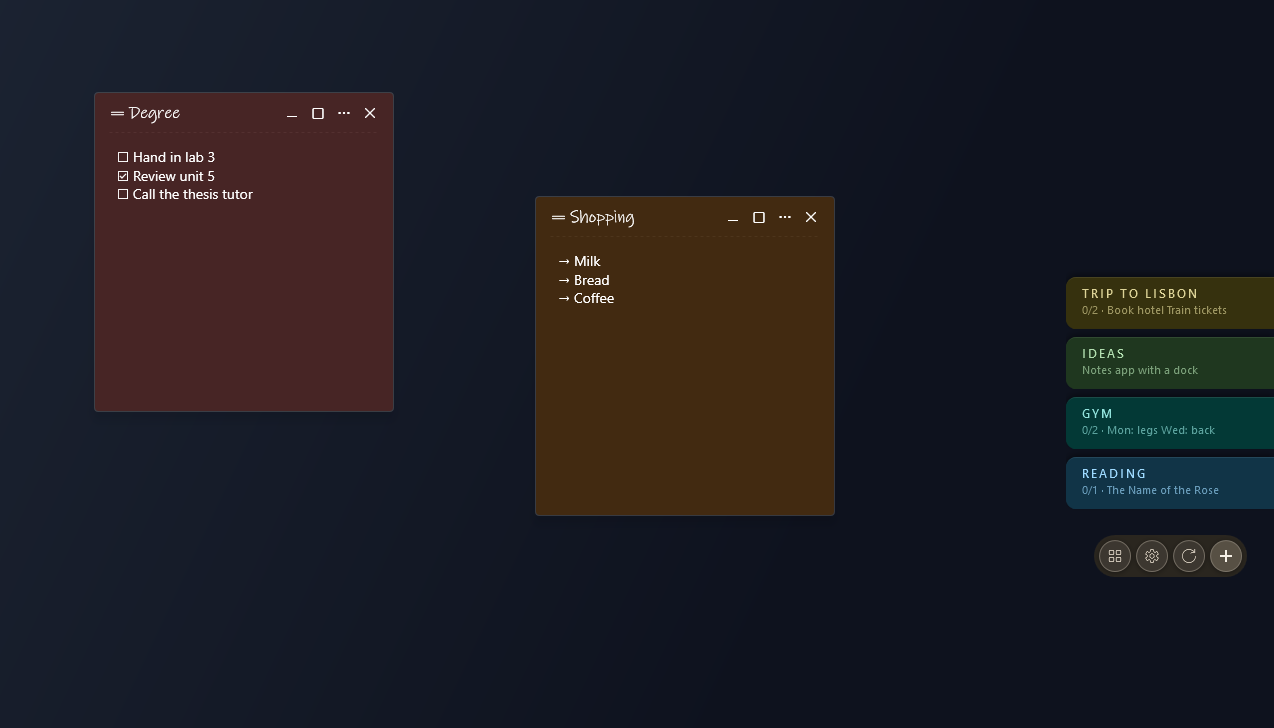
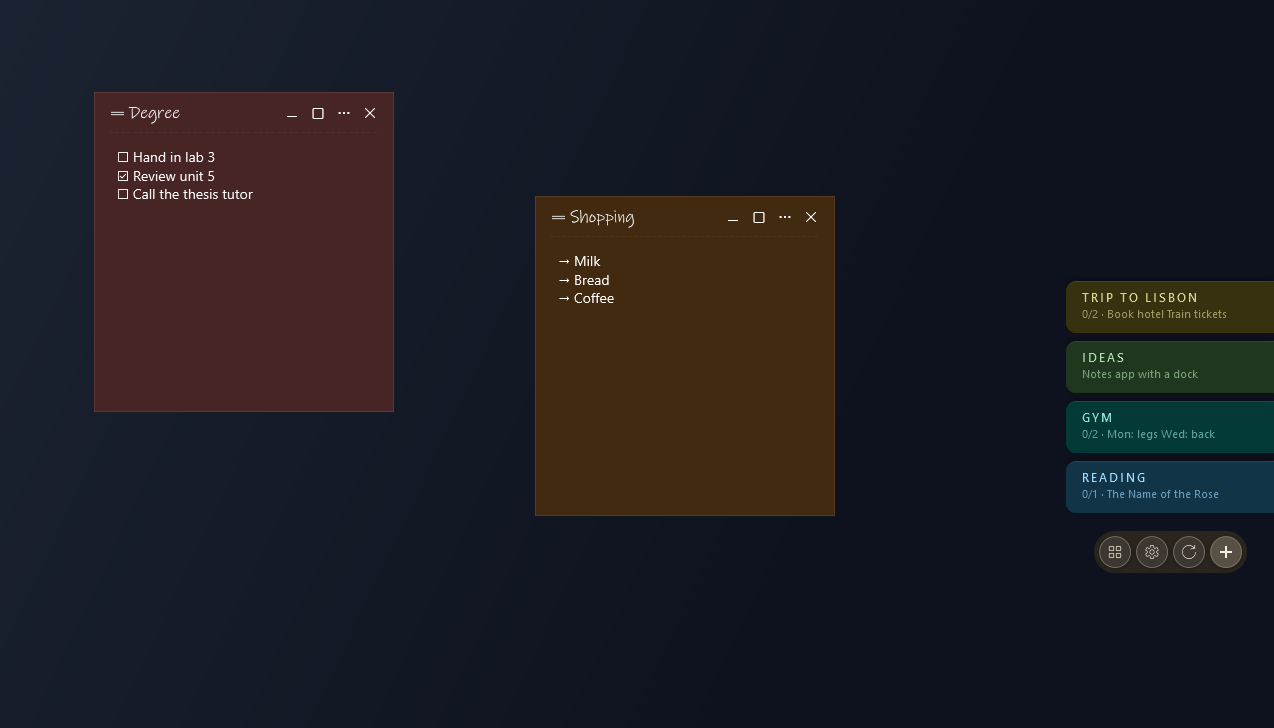
Closing a note fades the whole window (ClosingGhost); README screenshot with the tighter dock

diff --git a/src/Aldune/Windowing/ClosingGhost.cs b/src/Aldune/Windowing/ClosingGhost.cs
@@ -1,0 +1,118 @@
+using System.Runtime.InteropServices;
+using System.Windows;
+using System.Windows.Media;
+using System.Windows.Media.Animation;
+using System.Windows.Media.Effects;
+using System.Windows.Media.Imaging;
+using Aldune.Interop;
+using Brushes = System.Windows.Media.Brushes;
+using Color = System.Windows.Media.Color;
+using Image = System.Windows.Controls.Image;
+
+namespace Aldune.Windowing;
+
+/// <summary>
+/// Fades a closing note as ONE piece: frame, border and shadow included.
+///
+/// A note is an opaque window (it keeps ClearType, see NoteWindow), and an opaque window cannot change its opacity: animating the
+/// content only melts the content into the window background while the frame stays at full strength and then vanishes with a pop
+/// (very visible with the XP look). Windows also refuses <c>WS_EX_LAYERED</c> on these WPF windows, so a layered fade is not an option.
+/// Instead the window is photographed, hidden (cloaked) and a transparent window showing that photo fades and shrinks in its place.
+/// If anything fails the caller just closes the window as before.
+/// </summary>
+internal static class ClosingGhost
+{
+    private const double ShadowRoom = 24;
+    private const uint PW_RENDERFULLCONTENT = 0x2;
+
+    /// <summary>
+    /// Photographs <paramref name="source"/> as WPF draws it now: the window background under its content, at the screen's pixel density.
+    /// (PrintWindow was tried first and returns only the background of a WPF window.) Null if there is nothing to draw.
+    /// </summary>
+    internal static BitmapSource? Capture(Window source)
+    {
+        if (source.Content is not FrameworkElement content || source.ActualWidth < 1 || source.ActualHeight < 1) return null;
+        var dpi = VisualTreeHelper.GetDpi(source);
+        double width = source.ActualWidth, height = source.ActualHeight;
+
+        var visual = new DrawingVisual();
+        using (var context = visual.RenderOpen())
+        {
+            context.DrawRectangle(source.Background, null, new Rect(0, 0, width, height));
+            context.DrawRectangle(new VisualBrush(content) { Stretch = Stretch.None, AlignmentX = AlignmentX.Left, AlignmentY = AlignmentY.Top },
+                null, new Rect(0, 0, content.ActualWidth, content.ActualHeight));
+        }
+
+        var bitmap = new RenderTargetBitmap((int)Math.Ceiling(width * dpi.DpiScaleX), (int)Math.Ceiling(height * dpi.DpiScaleY),
+            96 * dpi.DpiScaleX, 96 * dpi.DpiScaleY, PixelFormats.Pbgra32);
+        bitmap.Render(visual);
+        bitmap.Freeze();
+        return bitmap;
+    }
+
+    /// <summary>
+    /// Builds the transparent window that stands in for <paramref name="source"/>: the photo, clipped to the real corner radius, with a
+    /// soft shadow. Returned not shown, so a test can inspect it.
+    /// </summary>
+    internal static Window Build(Window source, BitmapSource photo)
+    {
+        double width = source.ActualWidth, height = source.ActualHeight;
+        // Windows 11 rounds these windows with DWMWCP_ROUNDSMALL (4 px); the square look has no rounding.
+        double radius = ThemeManager.IsSquare ? 0 : 4;
+
+        var picture = new Image { Source = photo, Width = width, Height = height, Stretch = Stretch.Fill };
+        RenderOptions.SetBitmapScalingMode(picture, BitmapScalingMode.HighQuality);
+        picture.Clip = new RectangleGeometry(new Rect(0, 0, width, height), radius, radius);
+
+        var shadow = new System.Windows.Controls.Border
+        {
+            Width = width, Height = height, CornerRadius = new CornerRadius(radius), Background = Brushes.Black,
+            Effect = new DropShadowEffect { BlurRadius = 18, ShadowDepth = 4, Direction = 270, Color = Colors.Black, Opacity = 0.35 }
+        };
+
+        var root = new System.Windows.Controls.Grid
+        {
+            Margin = new Thickness(ShadowRoom), RenderTransformOrigin = new System.Windows.Point(0.5, 0.5),
+            RenderTransform = new ScaleTransform(1, 1)
+        };
+        root.Children.Add(shadow);
+        root.Children.Add(picture);
+
+        return new Window
+        {
+            WindowStyle = WindowStyle.None, AllowsTransparency = true, Background = Brushes.Transparent, ShowInTaskbar = false,
+            ShowActivated = false, Topmost = true, ResizeMode = ResizeMode.NoResize, Focusable = false, IsHitTestVisible = false,
+            Left = source.Left - ShadowRoom, Top = source.Top - ShadowRoom,
+            Width = width + ShadowRoom * 2, Height = height + ShadowRoom * 2, Content = root
+        };
+    }
+
+    /// <summary>
+    /// Replaces <paramref name="source"/> with the fading ghost and calls <paramref name="done"/> when it is gone. Returns false (and does
+    /// nothing) when the window cannot be photographed.
+    /// </summary>
+    internal static bool Play(Window source, TimeSpan duration, Action done)
+    {
+        BitmapSource? photo;
+        try { photo = Capture(source); }
+        catch (Exception ex) when (ex is ExternalException or InvalidOperationException or ArgumentException or OverflowException) { return false; }
+        if (photo is null) return false;
+
+        var ghost = Build(source, photo);
+        ghost.Show();
+        // The ghost has to be on screen before the real window disappears, or there is a blink: cloak one render pass later.
+        ghost.Dispatcher.BeginInvoke(System.Windows.Threading.DispatcherPriority.Render, new Action(() =>
+        {
+            NativeMethods.SetCloak(source, true);
+            var scale = (ScaleTransform)((System.Windows.Controls.Grid)ghost.Content).RenderTransform;
+            var length = new Duration(duration);
+            var ease = new QuadraticEase { EasingMode = EasingMode.EaseIn };
+            var fade = new DoubleAnimation(1, 0, length) { EasingFunction = ease };
+            fade.Completed += (_, _) => { ghost.Close(); done(); };
+            ghost.BeginAnimation(UIElement.OpacityProperty, fade);
+            scale.BeginAnimation(ScaleTransform.ScaleXProperty, new DoubleAnimation(1, 0.95, length) { EasingFunction = ease });
+            scale.BeginAnimation(ScaleTransform.ScaleYProperty, new DoubleAnimation(1, 0.95, length) { EasingFunction = ease });
+        }));
+        return true;
+    }
+}

diff --git a/src/Aldune/Windowing/NoteWindow.xaml.cs b/src/Aldune/Windowing/NoteWindow.xaml.cs
@@ -722,6 +722,9 @@ public partial class NoteWindow : Window
         _closingAnimationDone = true;
         e.Cancel = true;
 
+        // The whole note fades as one piece (see ClosingGhost); if it cannot be photographed, the content-only fade below still runs.
+        if (ClosingGhost.Play(this, CloseDuration, Close)) return;
+
         var content = (UIElement)Content;
         content.RenderTransformOrigin = new Point(0.5, 0.5);
         var scale = content.RenderTransform as ScaleTransform ?? new ScaleTransform(1, 1);

diff --git a/src/Aldune/Interop/NativeMethods.cs b/src/Aldune/Interop/NativeMethods.cs
@@ -228,7 +228,7 @@ internal static class NativeMethods
                 new Action(() => SetCloak(window, false)));
     }
 
-    private static void SetCloak(Window window, bool cloaked)
+    internal static void SetCloak(Window window, bool cloaked)
     {
         var hwnd = new WindowInteropHelper(window).Handle;
         if (hwnd == IntPtr.Zero) return;

diff --git a/docs/STATUS.md b/docs/STATUS.md
@@ -204,7 +204,7 @@ Tests: 506/506 passing (`dotnet test tests/Aldune.Core.Tests --no-restore`).
   **Pinned notes** (published in Windows 2.2.0 and Android 1.1.0; spec `specs/2026-10-31-pinned-notes-design.md`), done on both platforms: Core, Room (migration 4 to 5), the sync mapping, the vectors (C# and Kotlin), and the interface. Windows: entry in the note's menu and in the dock tab's right-click menu, a pin marker in the tab's badge row, a pin toggle on each manager row; the deck lists pinned notes first (`ORDER BY PinnedToTop DESC` in `GetByState`) and dragging a tab stays inside its group. Android: pin action in the long-press sheet, in the options sheet and in the editor's three-dots menu, a drawn pin on the row, `DockOrder` partitions pinned first (so the widget and the colour channel inherit it) and drag / Move up-down only act inside the group. **Compatibility:** the pin travels as the optional field `pinnedToTop` of the encrypted payload, written only when true, so the sync format stays 4; an older version (2.1.x / 1.0.x) shows the note unpinned and, if it *edits* and re-sends it, **drops the pin** (checked: both old versions read the new vectors, including the pinned note; only the old writer lacks the field). A key rotation on Windows used to drop the pin (and the visible name of protected notes) because the re-keyed copy did not carry the optional fields; fixed with a test. 25 sync tests cover the pin on both sides.
 
   **Round after 2.2.0 / 1.1.0 (2.3.0 / 1.2.0: built, tested and documented; waiting to be published)**: per-note done-tasks setting (Core, Windows, Android; Room 5 to 6), local version history (Core, Windows window, Android dialog), Android tags (All chip, all-tags dialog, manual order, `#` setting), bottom sheets following square corners, long-press menu about 350 ms sooner, release check over 100 releases, widget task progress and pin mark, dock view by wheel and an "All notes" view, menus ask for the skin's chrome font. **Checked without a mouse or screen (off-screen probes):** the dock wheel cycle on the four edges, the protected space behind a task box (caret, typing, paste) and the Android sync tick against a local server. The physical Left, Right and Home keys next to a task box were checked with real key events. The widget was seen on an emulator home screen (task progress and pin mark). README screenshots and the GIF were retaken for the new footer bar. **Italian**, **Japanese** and **Simplified Chinese** added as the sixth, seventh and eighth languages (Windows `Strings.T` takes an optional sixth argument, `UiLanguages`, the installer; Android `strings.tsv` column `it`, `values-it`, the language list, and `fastlane/.../it-IT` and `ja-JP` and `zh-CN`; Japanese also in the installer, Chinese is not because Inno Setup ships no Simplified Chinese file, so the Chinese installer shows English); a missing Italian, Japanese or Chinese text falls back to English. Machine-assisted translations that no native speaker has reviewed; both were rendered on screen (Windows Settings and manager, Android list). The welcome message now names the screen edge in each language (it used the English word in German, French and Portuguese). On Android a sync that overwrites a note now keeps the local text in the history first, like Windows. The dock tab menu's "Done tasks" item cycles and stays open, like the note menu. Android's editor and Settings were checked in sixteen looks on an emulator.
-  **Windows 2.4.0 (2026-11-01, in progress):** view label in a fixed place, accent ring instead of the cogwheel dot, wheel session that keeps the dock window, 8 px gap above the button bar, pin colour, «Restart now» for the language, Settings header spacing, tray menu outline from the accent, Ctrl+click on `http(s)` links (`LinkText`, 22 tests). Decisions in `ROADMAP.md` (Round 2.4.0). Open: fading the whole note window on close.
+  **Windows 2.4.0 (2026-11-01, in progress):** view label in a fixed place, accent ring instead of the cogwheel dot, wheel session that keeps the dock window, 8 px gap above the button bar, pin colour, «Restart now» for the language, Settings header spacing, tray menu outline from the accent, Ctrl+click on `http(s)` links (`LinkText`, 22 tests). Decisions in `ROADMAP.md` (Round 2.4.0). Closing a note fades the whole window through `ClosingGhost`.
   **Android editor (2026-10-31, second session):** the note title lives in its own field in the editor header, like the Windows note window (`NoteText`: the note is still one text, first line = title, so nothing changes in storage or sync); the three-dots menu gets Pin, Archive and Trash; the long-press sheet offers Archive, Trash and Restore (the swipe actions, now discoverable), opens fully with no drag handle and scrolls in landscape; the options sheet lists the existing tags as one-tap chips; Settings tabs sit in one row in landscape and in an even 3-column grid in portrait. Decisions and the "do not" list in `docs/DECISIONS-2026-10-31.md`.
   New: Compose instrumented tests on a device (`./gradlew :app:connectedDebugAndroidTest`, see `ANDROID_PROBES.md`) and `ButtonContrastTests`.
 

diff --git a/docs/ROADMAP.md b/docs/ROADMAP.md
@@ -397,7 +397,7 @@ cross-platform clients reusing the common sync format.
 - **Settings header** uses the notes manager's spacing (20,18,14 and 20,17,16,17 with a real title bar, more air under it).
 - **Tray menu**: the outline of the hovered row follows the look's accent, so a custom accent colour reaches it.
 - **Links in notes**: allowed, in the smallest safe form. Plain `http://` and `https://` text opens with Ctrl+click (hand cursor while Ctrl is held), never by itself; nothing else opens (no `file:`, UNC, `javascript:`, `mailto:`), URLs with user info are ignored, runs over 2048 characters are ignored (`LinkText`, Core). The note stays plain text, so sync and storage do not change. Windows only for now; Android can follow in its next release.
-- **Not changed, on purpose**: manager rows and tab previews keep their spacing (measured, nothing cramped). Closing a note fades its content but the window frame (and the DWM shadow) still goes at once: fading the whole window needs a layered window and Windows refuses `WS_EX_LAYERED` on these WPF windows (`SetLayeredWindowAttributes` fails); the way out is a snapshot window that fades in its place, not done yet.
+- **Not changed, on purpose**: manager rows and tab previews keep their spacing (measured, nothing cramped). Closing a note used to fade only its content while the window frame and the DWM shadow stayed at full strength and vanished with a pop (worst with the XP looks). Windows refuses `WS_EX_LAYERED` on these WPF windows, so now `ClosingGhost` renders the note (background + content), cloaks the real window and fades a transparent stand-in with the same corners and a soft shadow; if the render fails, the old content fade still runs.
 
 ## 3. Discarded for now, with its reason
 
